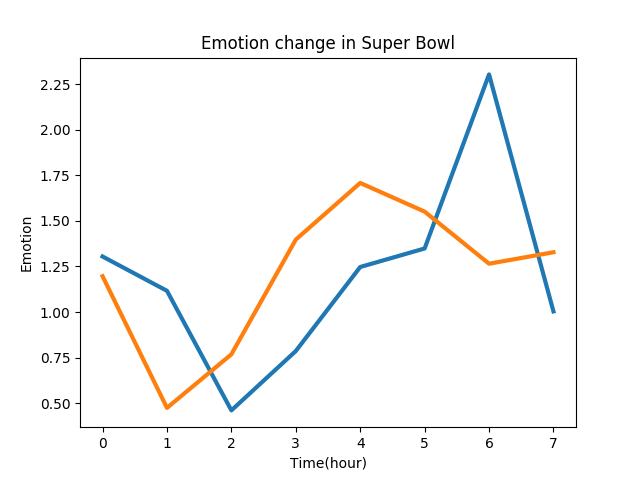
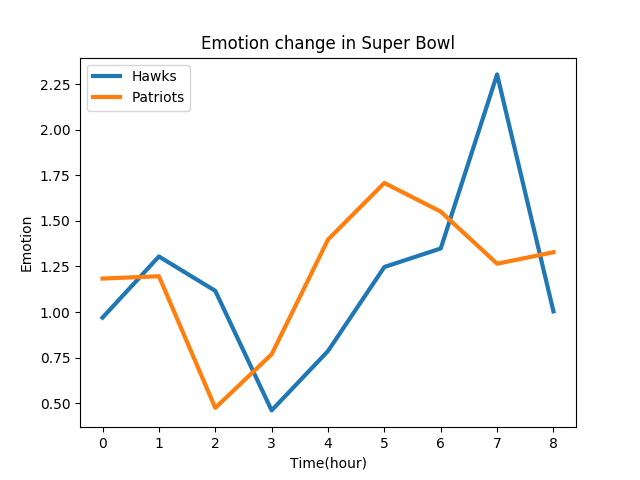
updated 7

diff --git a/hw5/part7.py b/hw5/part7.py
@@ -1,22 +1,22 @@
+import datetime
 import json
-import numpy as np
 import math
-import datetime, time
-from nltk.tokenize import word_tokenize
-import re
-import operator
-from collections import Counter, defaultdict
-from nltk.corpus import stopwords
-import string
+import time
+from collections import defaultdict
+
 import matplotlib.pyplot as plt
-from utility import *
 import nltk
+import logging as logger
+import re
+import string
+from nltk.corpus import stopwords
+from collections import Counter
+
+logger.basicConfig(level=logger.INFO, format='%(asctime)-15s - %(message)s')
 
 hash_tags = ['gohawks', 'patriots']
 start_date = datetime.datetime(2015, 02, 01, 03, 30, 0)
 end_date = datetime.datetime(2015, 02, 02, 03, 30, 0)
-mintime = int(time.mktime(start_date.timetuple()))
-maxtime = int(time.mktime(end_date.timetuple()))
 
 tweets_hawks = [[] for i in range(24)]
 tweets_patriots = [[] for i in range(24)]
@@ -25,15 +25,17 @@ for hash_tag in hash_tags:
     filename = './tweet_data/tweets_#{!s}.txt'.format(hash_tag)
     f = open(filename, 'rb')
     line = f.readline()
-    while (len(line) != 0):
+    mintime = int(time.mktime(start_date.timetuple()))
+    maxtime = int(time.mktime(end_date.timetuple()))
+    while len(line) != 0:
         tweet = json.loads(line)
-        if (tweet['firstpost_date'] < mintime):
+        if tweet['firstpost_date'] < mintime:
             line = f.readline()
             continue
         if tweet['firstpost_date'] > maxtime:
             break
         index = (tweet['firstpost_date'] - mintime) / 3600
-        if (hash_tag == 'gohawks'):
+        if hash_tag == 'gohawks':
             tweets_hawks[index].append(tweet)
         else:
             tweets_patriots[index].append(tweet)
@@ -41,38 +43,37 @@ for hash_tag in hash_tags:
 
 logger.info("Finished loading Hawks and Patriots data")
 
-emoticons_str = r"""
+emoji_str = r"""
     (?:
         [:=;] # Eyes
         [oO\-]? # Nose (optional)
         [D\)\]\(\]/\\OpP] # Mouth
     )"""
 
-regex_str = [
-    emoticons_str,
-    r'<[^>]+>',  # HTML tags
-    r'(?:@[\w_]+)',  # @-mentions
-    r"(?:\#+[\w_]+[\w\'_\-]*[\w_]+)",  # hash-tags
+special_str = [
+    emoji_str,
+    r'<[^>]+>',  # HTML
+    r'(?:@[\w_]+)',  # @
+    r"(?:\#+[\w_]+[\w\'_\-]*[\w_]+)",  # hash tags
     r'http[s]?://(?:[a-z]|[0-9]|[$-_@.&+]|[!*\(\),]|(?:%[0-9a-f][0-9a-f]))+',  # URLs
-
     r'(?:(?:\d+,?)+(?:\.?\d+)?)',  # numbers
     r"(?:[a-z][a-z'\-_]+[a-z])",  # words with - and '
     r'(?:[\w_]+)',  # other words
     r'(?:\S)'  # anything else
 ]
 
-tokens_re = re.compile(r'(' + '|'.join(regex_str) + ')', re.VERBOSE | re.IGNORECASE)
-emoticon_re = re.compile(r'^' + emoticons_str + '$', re.VERBOSE | re.IGNORECASE)
+tokens_regex = re.compile(r'(' + '|'.join(special_str) + ')', re.VERBOSE | re.IGNORECASE)
+emoji_regex = re.compile(r'^' + emoji_str + '$', re.VERBOSE | re.IGNORECASE)
 
 
 def tokenize(s):
-    return tokens_re.findall(s)
+    return tokens_regex.findall(s)
 
 
 def preprocess(s, lowercase=True):
     tokens = tokenize(s)
     if lowercase:
-        tokens = [token if emoticon_re.search(token) else token.lower() for token in tokens]
+        tokens = [token if emoji_regex.search(token) else token.lower() for token in tokens]
     return tokens
 
 
@@ -81,7 +82,7 @@ stop = stopwords.words('english') + punctuation + ['rt', 'via']
 
 # term list and term co-occurrence list for hawks
 count_list_hawks = []
-co_occur_list_hawks = []
+cooccur_list_hawks = []
 for tweets in tweets_hawks:
     count_single_stop = Counter()
     co_occur = defaultdict(lambda: defaultdict(int))
@@ -96,14 +97,14 @@ for tweets in tweets_hawks:
                     co_occur[w1][w2] += 1
 
     count_list_hawks.append(count_single_stop)
-    co_occur_list_hawks.append(co_occur)
+    cooccur_list_hawks.append(co_occur)
 
 logger.info("Hawks count: " + str(len(count_list_hawks)))
-logger.info("Hawks cooccurrence count: " + str(len(co_occur_list_hawks)))
+logger.info("Hawks cooccurrence count: " + str(len(cooccur_list_hawks)))
 
 # term list and term co-occurrence list for patriots
 count_list_patriots = []
-co_occur_list_patriots = []
+cooccur_list_patriots = []
 for tweets in tweets_patriots:
     count_single_stop = Counter()
     co_occur = defaultdict(lambda: defaultdict(int))
@@ -118,10 +119,10 @@ for tweets in tweets_patriots:
                     co_occur[w1][w2] += 1
 
     count_list_patriots.append(count_single_stop)
-    co_occur_list_patriots.append(co_occur)
+    cooccur_list_patriots.append(co_occur)
 
 logger.info("Patriots count: " + str(len(count_list_patriots)))
-logger.info("Patriots cooccurrence count: " + str(len(co_occur_list_patriots)))
+logger.info("Patriots cooccurrence count: " + str(len(cooccur_list_patriots)))
 
 pmi_hawks_list = []
 pmi_patriots_list = []
@@ -145,15 +146,6 @@ with open('./negative.txt', 'rb') as vocabulary:
 
 logger.info("Negative vocabulary length: " + str(len(negative_vocab)))
 
-# positive_vocab = [
-#     'good', 'nice', 'great', 'awesome', 'outstanding', 'fantastic', 'terrific', ':)', ':-)', 'like', 'love', ':D',
-#     ':-D', 'victory', 'win', 'wonderful', 'happy', 'champion', 'championship'
-# ]
-# negative_vocab = [
-#     'bad', 'terrible', 'crap', 'useless', 'hate', ':(', ':-(', 'lost', 'defeat', 'damn', 'fuck', 'suck',
-#     'disappointing', 'lose', 'sorry', 'unhappy', 'sad'
-# ]
-
 # calculate the PMI for terms
 for i in range(len(count_list_hawks)):
     p_t = {}
@@ -161,12 +153,12 @@ for i in range(len(count_list_hawks)):
     length = float(len(tweets_hawks[i]))
     for term, n in count_list_hawks[i].items():
         p_t[term] = n / length
-        for t2 in co_occur_list_hawks[i][term]:
-            p_t_com[term][t2] = co_occur_list_hawks[i][term][t2] / length
+        for t2 in cooccur_list_hawks[i][term]:
+            p_t_com[term][t2] = cooccur_list_hawks[i][term][t2] / length
 
     pmi = defaultdict(lambda: defaultdict(int))
     for t1 in p_t:
-        for t2 in co_occur_list_hawks[i][t1]:
+        for t2 in cooccur_list_hawks[i][t1]:
             denom = p_t[t1] * p_t[t2]
             pmi[t1][t2] = math.log(p_t_com[t1][t2] / denom, 2)
     semantic_orientation = {}
@@ -185,12 +177,12 @@ for i in range(len(count_list_patriots)):
     length = float(len(tweets_patriots[i]))
     for term, n in count_list_patriots[i].items():
         p_t[term] = n / length
-        for t2 in co_occur_list_patriots[i][term]:
-            p_t_com[term][t2] = co_occur_list_patriots[i][term][t2] / length
+        for t2 in cooccur_list_patriots[i][term]:
+            p_t_com[term][t2] = cooccur_list_patriots[i][term][t2] / length
 
     pmi = defaultdict(lambda: defaultdict(int))
     for t1 in p_t:
-        for t2 in co_occur_list_patriots[i][t1]:
+        for t2 in cooccur_list_patriots[i][t1]:
             denom = p_t[t1] * p_t[t2]
             pmi[t1][t2] = math.log(p_t_com[t1][t2] / denom, 2)
     semantic_orientation = {}
@@ -203,6 +195,7 @@ for i in range(len(count_list_patriots)):
 
 logger.info("Hawks PMI count: " + str(len(pmi_patriots_list)))
 
+# plot
 plt.figure(1)
 x = range(24)
 plt.plot(x, pmi_hawks_list, lw=3, label="Hawks")
@@ -215,9 +208,9 @@ plt.savefig('pics/part7/sb_day.png', format='png')
 plt.clf()
 
 plt.figure(1)
-x = range(8)
-plt.plot(x, pmi_hawks_list[13:21], lw=3, label="Hawks")
-plt.plot(x, pmi_patriots_list[13:21], lw=3, label="Patriots")
+x = range(9)
+plt.plot(x, pmi_hawks_list[12:21], lw=3, label="Hawks")
+plt.plot(x, pmi_patriots_list[12:21], lw=3, label="Patriots")
 plt.xlabel("Time(hour)")
 plt.ylabel("Emotion")
 plt.legend()

diff --git a/hw5/utility.py b/hw5/utility.py
@@ -8,6 +8,7 @@ import statsmodels.api as sm
 from collections import Counter
 from nltk.corpus import stopwords
 from sklearn.cross_validation import KFold
+import datetime
 
 logger.basicConfig(level=logger.INFO, format='%(asctime)-15s - %(message)s')
 
